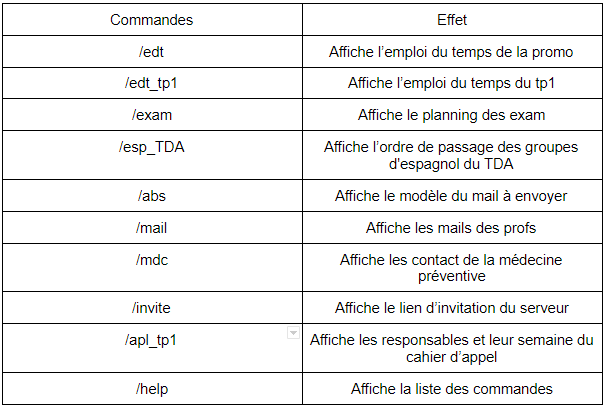
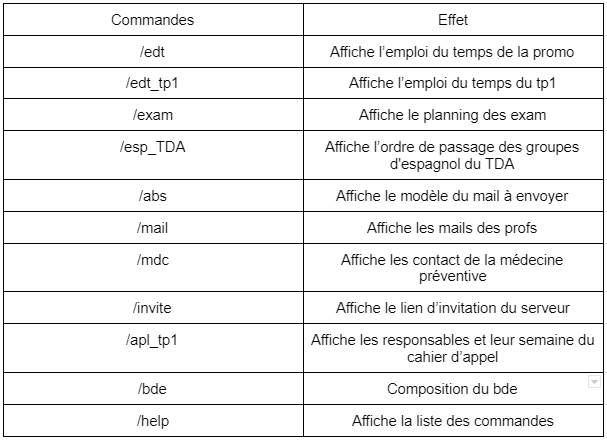
Add files via upload

Changed region(s): [[0.0, 0.0, 1.0, 0.9976]]

diff --git a/index.js b/index.js
@@ -202,6 +202,15 @@ Client.on("message", message => {
 
     message.channel.send(embed);
     }
+    if(message.content == prefix + "bde"){
+        var embed = new Discord.MessageEmbed()
+        .setColor("#602F98")
+        .setTitle("Composition du BDE")
+        .setDescription("***Président:*** Logan.V \n***Vice président:*** Mathis.R \n***Secrétaire:*** Laurie.D \n***Trésorier:*** Mélina.M \n***Pôle Partenariat:*** Charlotte.V, Noah.A\n***Pôle Event:*** Lise.B, Simon.L \n***Pôle Communication:*** Clément.S, Théo.DS \n***Pôle Audiovisuel:*** Mathilde.C, Julien.C \n***Membre actifs:*** Amandine.M,Louise.LM, Matthias.N\n\n\nN'hésitez pas à nous contacter via notre Instagrame **@bde_labete** ou sur Discord avec un **@BDE**")
+        .setTimestamp()
+
+    message.channel.send(embed);
+    }
     
 //ping
     if(message.content == prefix + "ping"){
